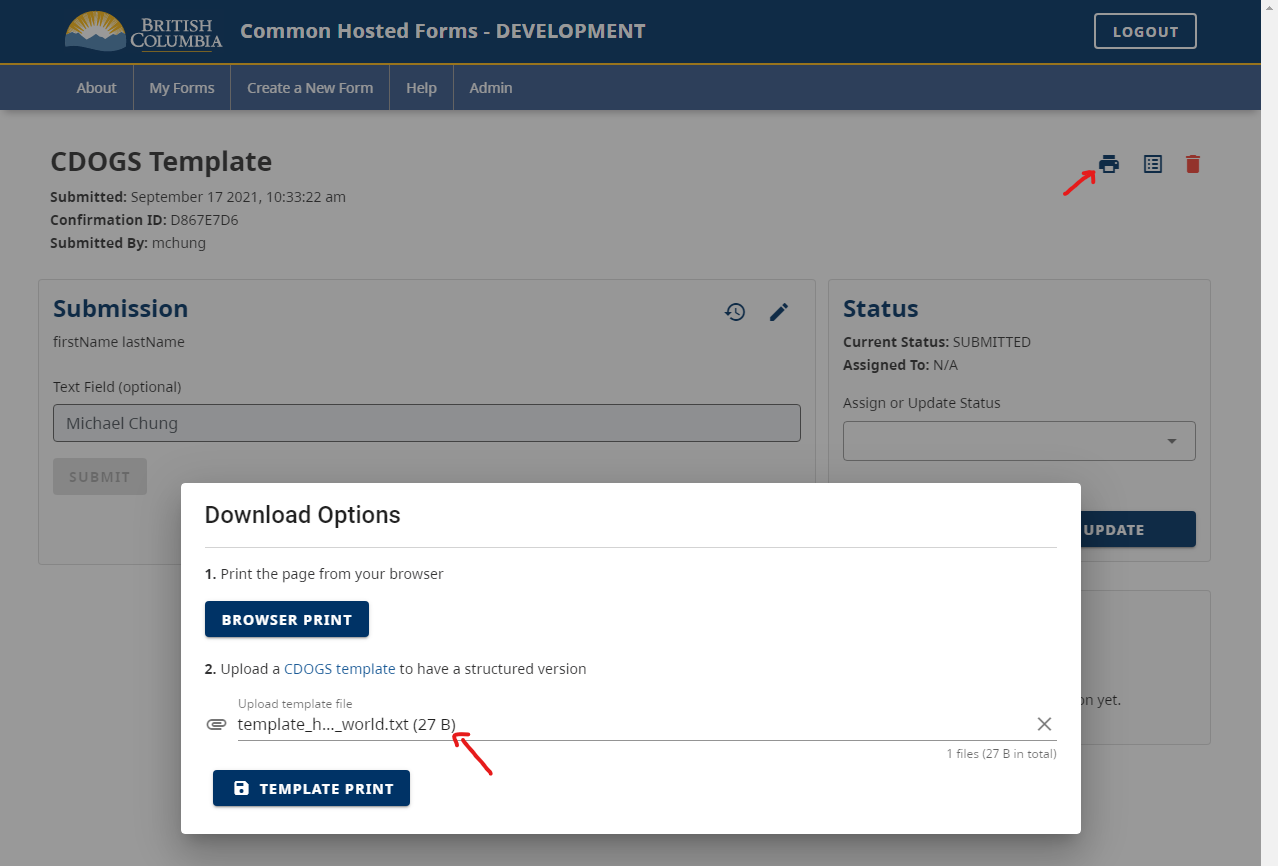
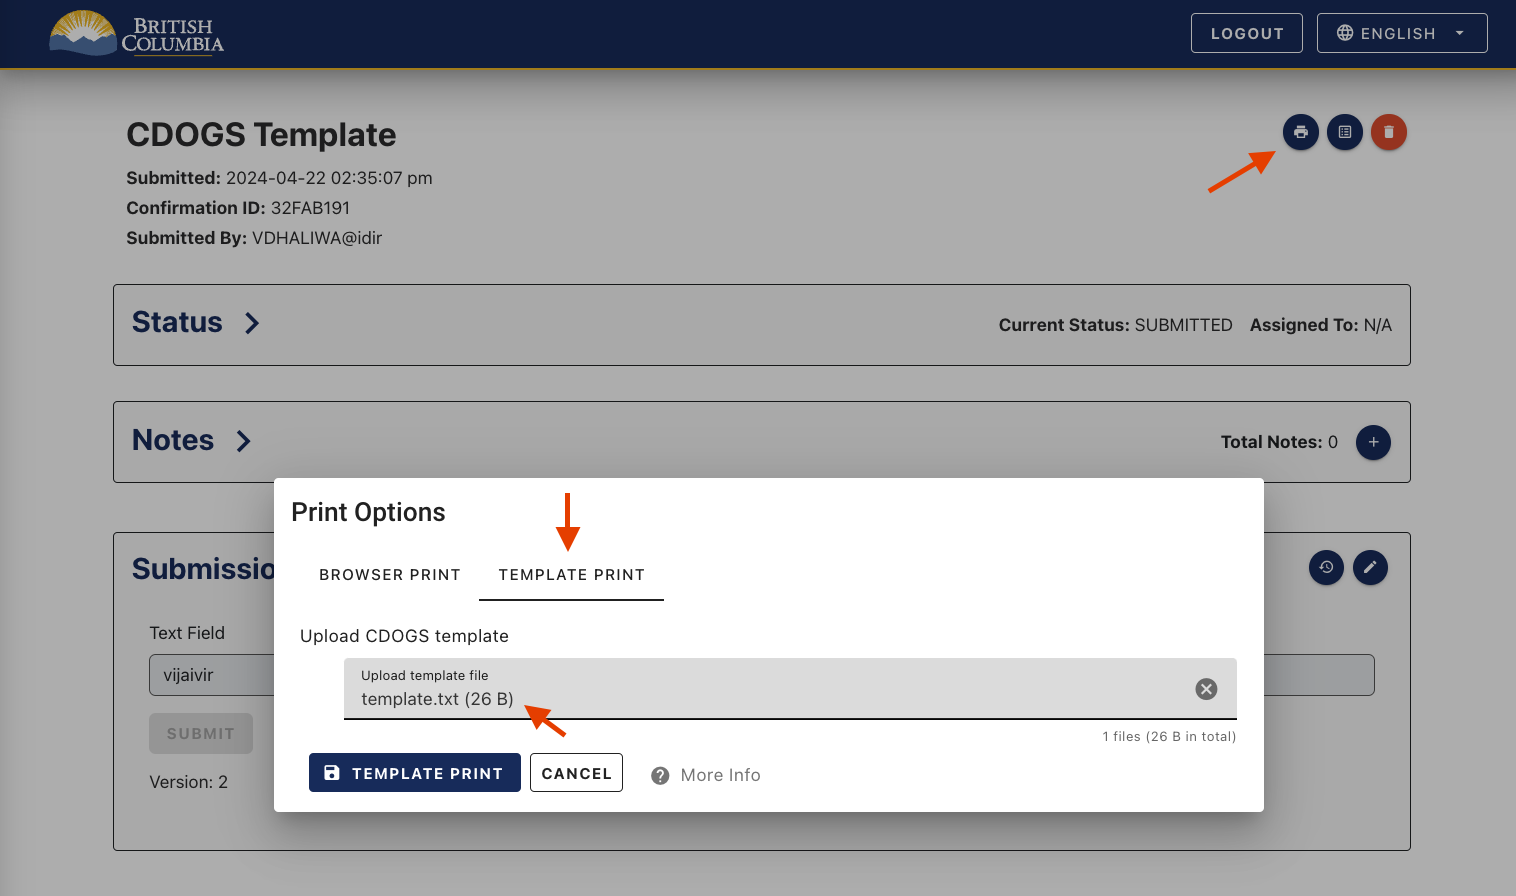
updated browser print and cdogs documentation

diff --git a/docs/Capabilities/Functionalities/CDOGS-Template-Upload.md b/docs/Capabilities/Functionalities/CDOGS-Template-Upload.md
@@ -41,5 +41,15 @@ Create a simple template upload that shows how to replace a variable in a .txt t
 
 Learn more about creating complex templates to fit your form's requirements, by [visiting the CDOGS Templating Wiki](https://github.com/bcgov/common-document-generation-service/blob/master/app/USAGE.md#templating).
 
+## Default CDOGS Template
+
+You may also upload a default template for submitters and reviewers. Once you create a form, navigate to the 'Manage Form' screen and click on the CDOGS template dropdown.
+
+![Manage Template](images/manage_template.png)
+
+ From here, you will be able to upload a CDOGS that will be available by default on the form viewer page. To access it, simply click on the 'Print' icon and choose the default template option. 
+
+ ![Default Template Print](images/default_print.png)
+
 ***
 [Terms of Use](Terms-of-Use) | [Privacy](Privacy) | [Security](Security) | [Service Agreement](Service-Agreement) | [Accessibility](Accessibility)

diff --git a/docs/Capabilities/Functionalities/Printing-from-a-browser.md b/docs/Capabilities/Functionalities/Printing-from-a-browser.md
@@ -11,9 +11,11 @@ You can print any CHEFS form straight from your browser. You can go to the "File
 
 If you are reviewing a submission and want to print the results without the notes and status, use the "Print" icon in the upper right.
 
-Then in the "Download Options" window, click on "BROWSER PRINT."
+Then in the "Print Options" window, click on "BROWSER PRINT."
 
 ![Submission Print](images/print_browser.png) 
+
+The **'Expand text fields'** checkbox expands any text input before printing the form. This is useful if the form contains any truncated user input in a Text Field that does not auto-expand. 
 
 ## Printing to a template
 
